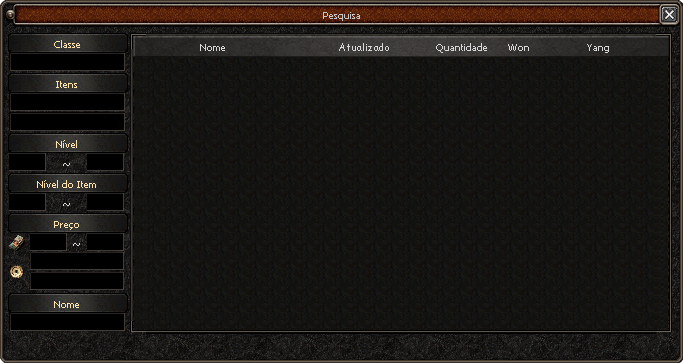
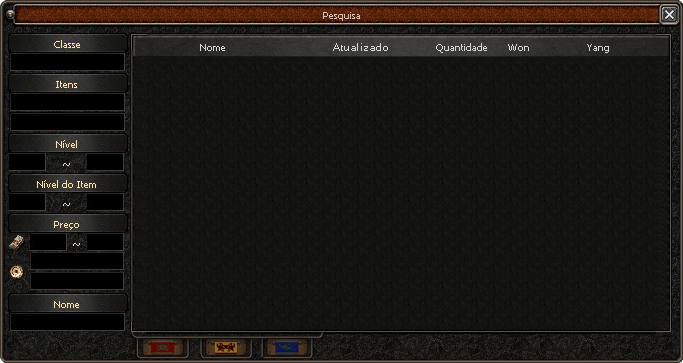
first commit

diff --git a/style.css b/style.css
@@ -50,7 +50,7 @@ body {
     width: 683px; /* Largura personalizada */
     height: 363px; /* Altura personalizada */
     border: 2px solid #333; /* Borda da caixa */
-    border-radius: 11px; /* Bordas arredondadas */
+    border-radius: 10px; /* Bordas arredondadas */
     background-color: #fff; /* Cor de fundo */
     background-image: url('img/bg.png'); /* Caminho para a imagem de fundo */
     background-size: cover; /* A imagem cobre toda a caixa */
@@ -412,6 +412,7 @@ input[type=number] {
     position: absolute; /* Posiciona a button-container de forma absoluta */
     bottom: 8px; /* Encosta ao fundo do contêiner pai */
     margin-top: 0px; /* Espaçamento acima dos botões */
+    z-index: 1;
 }
 
 .left-button, .right-button {
@@ -430,6 +431,7 @@ input[type=number] {
     font-family: sans-serif;
     letter-spacing:0px;
     cursor: url('img/cursor1.png'), auto; /* Caminho da imagem convertida */
+    z-index: 0
 }
 
 .left-button:hover, .right-button:hover {
@@ -722,4 +724,160 @@ input[type=number] {
 
 .btn-cancel:hover {
     background-color: #d32f2f;
+}
+
+
+
+
+
+
+
+.error-message {
+    width: 50%; /* Largura dos botões */
+    height: 100px; /* Altura dos botões */
+    background-color: #f8d7da00; /* Cor de fundo clara (vermelha) */
+    color: #a5a5a5; /* Cor do texto (vermelho escuro) */
+    border: 1px solid #f5c6cb00; /* Borda sutil */
+    padding: 0px; /* Espaçamento interno */
+    margin-top: 78%; /* Espaçamento acima da mensagem */
+    margin-left: -65px; /* Espaçamento acima da mensagem */
+    border-radius: 0px; /* Cantos arredondados */
+    background-image: url('img/select_reino1.png');
+    background-size: contain; /* A imagem cobre toda a caixa */
+	background-repeat: no-repeat;
+    font-size: 13px;
+    z-index: 2;
+    display: flex;
+    align-items: center; /* Alinha verticalmente */
+    justify-content: center; /* Alinha horizontalmente */
+    text-align: center; /* Alinha o texto dentro do próprio contêiner */
+    z-index: 5;
+    
+}
+
+
+
+.reino {
+    margin-top: 3px;
+    margin-left: -33.7%;
+    z-index: 2;
+}
+
+
+.azul {
+    width: 57px; /* Largura dos botões */
+    height: 24px; /* Altura dos botões */
+    border: none; /* Remove a borda padrão */
+    border-radius: 1px; /* Bordas arredondadas dos botões */
+    background-color: #6f6f6e00; /* Cor de fundo dos botões */
+    background-image: url('img/reinos.png'); /* Caminho para a imagem de fundo */
+	background-size: cover; /* A imagem cobre toda a caixa */
+    background-position: center; /* Centraliza a imagem */
+	background-repeat: no-repeat;	
+    color: #d5d5d4; /* Cor do texto dos botões */
+    cursor: pointer; /* Cursor de ponteiro ao passar sobre os botões */
+    font-size: 9px;
+    font-family: sans-serif;
+    letter-spacing:0px;
+    cursor: url('img/cursor1.png'), auto; /* Caminho da imagem convertida */
+}
+
+
+
+
+
+.azul.selected {
+    background-image: url('img/azul.png'); /* Caminho para a imagem de fundo */
+    width: 57px; /* Largura dos botões */
+    height: 24px; /* Altura dos botões */
+    border: none; /* Remove a borda padrão */
+    border-radius: 1px; /* Bordas arredondadas dos botões */
+    background-color: #6f6f6e00; /* Cor de fundo dos botões */
+	background-size: cover; /* A imagem cobre toda a caixa */
+    background-position: center; /* Centraliza a imagem */
+	background-repeat: no-repeat;	
+    color: #d5d5d4; /* Cor do texto dos botões */
+    cursor: pointer; /* Cursor de ponteiro ao passar sobre os botões */
+    font-size: 9px;
+    font-family: sans-serif;
+    letter-spacing:0px;
+    cursor: url('img/cursor1.png'), auto; /* Caminho da imagem convertida */
+}
+
+
+.vermelho {
+    width: 57px; /* Largura dos botões */
+    height: 24px; /* Altura dos botões */
+    border: 100px #6f6f6e02; /* Remove a borda padrão */
+    background-color: #6f6f6e02; /* Cor de fundo dos botões */
+    background-image: url('img/reinos.png'); /* Caminho para a imagem de fundo */
+	background-size: cover; /* A imagem cobre toda a caixa */
+    background-position: center; /* Centraliza a imagem */
+	background-repeat: no-repeat;	
+    color: #d5d5d4; /* Cor do texto dos botões */
+    cursor: pointer; /* Cursor de ponteiro ao passar sobre os botões */
+    font-size: 0px;
+    font-family: sans-serif;
+    letter-spacing:0px;
+    cursor: url('img/cursor1.png'), auto; /* Caminho da imagem convertida */
+    
+}
+
+
+
+.vermelho.selected {
+    background-image: url('img/vermelho.png'); /* Caminho para a imagem de fundo */
+    width: 57px; /* Largura dos botões */
+    height: 24px; /* Altura dos botões */
+    border: none; /* Remove a borda padrão */
+    border-radius: 1px; /* Bordas arredondadas dos botões */
+    background-color: #6f6f6e00; /* Cor de fundo dos botões */
+	background-size: cover; /* A imagem cobre toda a caixa */
+    background-position: center; /* Centraliza a imagem */
+	background-repeat: no-repeat;	
+    color: #d5d5d4; /* Cor do texto dos botões */
+    cursor: pointer; /* Cursor de ponteiro ao passar sobre os botões */
+    font-size: 9px;
+    font-family: sans-serif;
+    letter-spacing:0px;
+    cursor: url('img/cursor1.png'), auto; /* Caminho da imagem convertida */
+}
+
+
+
+.amarelo {
+    width: 57px; /* Largura dos botões */
+    height: 24px; /* Altura dos botões */
+    border: none; /* Remove a borda padrão */
+    border-radius: 1px; /* Bordas arredondadas dos botões */
+    background-color: #6f6f6e00; /* Cor de fundo dos botões */
+    background-image: url('img/reinos.png'); /* Caminho para a imagem de fundo */
+	background-size: cover; /* A imagem cobre toda a caixa */
+    background-position: center; /* Centraliza a imagem */
+	background-repeat: no-repeat;	
+    color: #d5d5d4; /* Cor do texto dos botões */
+    cursor: pointer; /* Cursor de ponteiro ao passar sobre os botões */
+    font-size: 9px;
+    font-family: sans-serif;
+    letter-spacing:0px;
+    cursor: url('img/cursor1.png'), auto; /* Caminho da imagem convertida */
+}
+
+
+.amarelo.selected {
+    background-image: url('img/amarelo.png'); /* Caminho para a imagem de fundo */
+    width: 57px; /* Largura dos botões */
+    height: 24px; /* Altura dos botões */
+    border: none; /* Remove a borda padrão */
+    border-radius: 1px; /* Bordas arredondadas dos botões */
+    background-color: #6f6f6e00; /* Cor de fundo dos botões */
+	background-size: cover; /* A imagem cobre toda a caixa */
+    background-position: center; /* Centraliza a imagem */
+	background-repeat: no-repeat;	
+    color: #d5d5d4; /* Cor do texto dos botões */
+    cursor: pointer; /* Cursor de ponteiro ao passar sobre os botões */
+    font-size: 9px;
+    font-family: sans-serif;
+    letter-spacing:0px;
+    cursor: url('img/cursor1.png'), auto; /* Caminho da imagem convertida */
 }

diff --git a/index.html b/index.html
@@ -10,10 +10,13 @@
     <link rel="stylesheet" href="style.css"> <!-- Link para o arquivo CSS -->
 </head>
 <body>
+
+    
     <div class="box-1">
         <div class="custom-box">
             <div class="title-box">
                 <h1><!--Pesquisa--></h1> <!-- Título dentro da nova caixa -->
+                <div id="message" class="error-message" style="display: none;"></div> <!-- Div para mensagem -->
             </div>
             
             <div class="inner-container">
@@ -108,7 +111,13 @@
 
             <div class="button-container">
                 <button class="left-button">Pesquisar</button>
-                <button class="right-button" id="edit-selected">Comprar</button>
+                <button class="right-button" id="edit-selected">Editar</button>
+            </div>
+
+            <div class="reino">
+                <button id="button-vermelho" class="vermelho" data-url="dbvermelho.csv"></button>
+                <button id="button-amarelo" class="amarelo" data-url="dbamarelo.csv"></button>
+                <button id="button-azul" class="azul" data-url="dbazul.csv"></button>
             </div>
         </div>
     
@@ -160,6 +169,31 @@
 
 
 <script>
+
+
+    // Seleciona todos os botões
+    const buttons = document.querySelectorAll('button[data-url]');
+    const messageDiv = document.getElementById('message'); // Seleciona o elemento da mensagem
+
+    // Adiciona um evento de clique a cada botão
+    buttons.forEach(button => {
+        button.addEventListener('click', () => {
+            // Remove a classe 'selected' de todos os botões
+            buttons.forEach(btn => btn.classList.remove('selected'));
+            
+            // Adiciona a classe 'selected' ao botão clicado
+            button.classList.add('selected');
+
+            // Limpa a mensagem ao selecionar um botão
+            messageDiv.style.display = 'none';
+            messageDiv.textContent = '';
+
+
+        });
+    });
+
+
+
     function formatInput(input) {
         let value = input.value.replace(/\D/g, ''); // Remove caracteres não numéricos
         const maxDigits = input.id.includes('won') ? 6 : 18; // Limitação baseada no campo
@@ -316,9 +350,33 @@
 
             console.log('Yang Mínimo e Máximo:', { minYangValue, maxYangValue });
 
-            // Remove a tabela da renderização
+
+
+
+
+                
+
+
             async function fetchCSV() {
-            const url = 'dbazul.csv'; // Caminho do arquivo CSV na mesma pasta do HTMLL
+                // Obter o botão selecionado
+                const selectedButton = document.querySelector('button.selected');
+
+                // Verifica se algum botão está selecionado
+                if (!selectedButton) {
+                    console.error('Nenhum botão selecionado. Selecione um botão para carregar o CSV.');
+                    messageDiv.textContent = '';
+                    messageDiv.style.display = 'block'; // Mostra a mensagem
+                    return;
+                }
+
+                // Pega o data-url do botão selecionado
+                const url = selectedButton.getAttribute('data-url'); // Agora 'url' pega o data-url do botão
+
+                console.log('URL do CSV selecionado:', url); // Log da URL do CSV selecionado
+
+
+
+
 
             try {
                 const response = await fetch(url);
